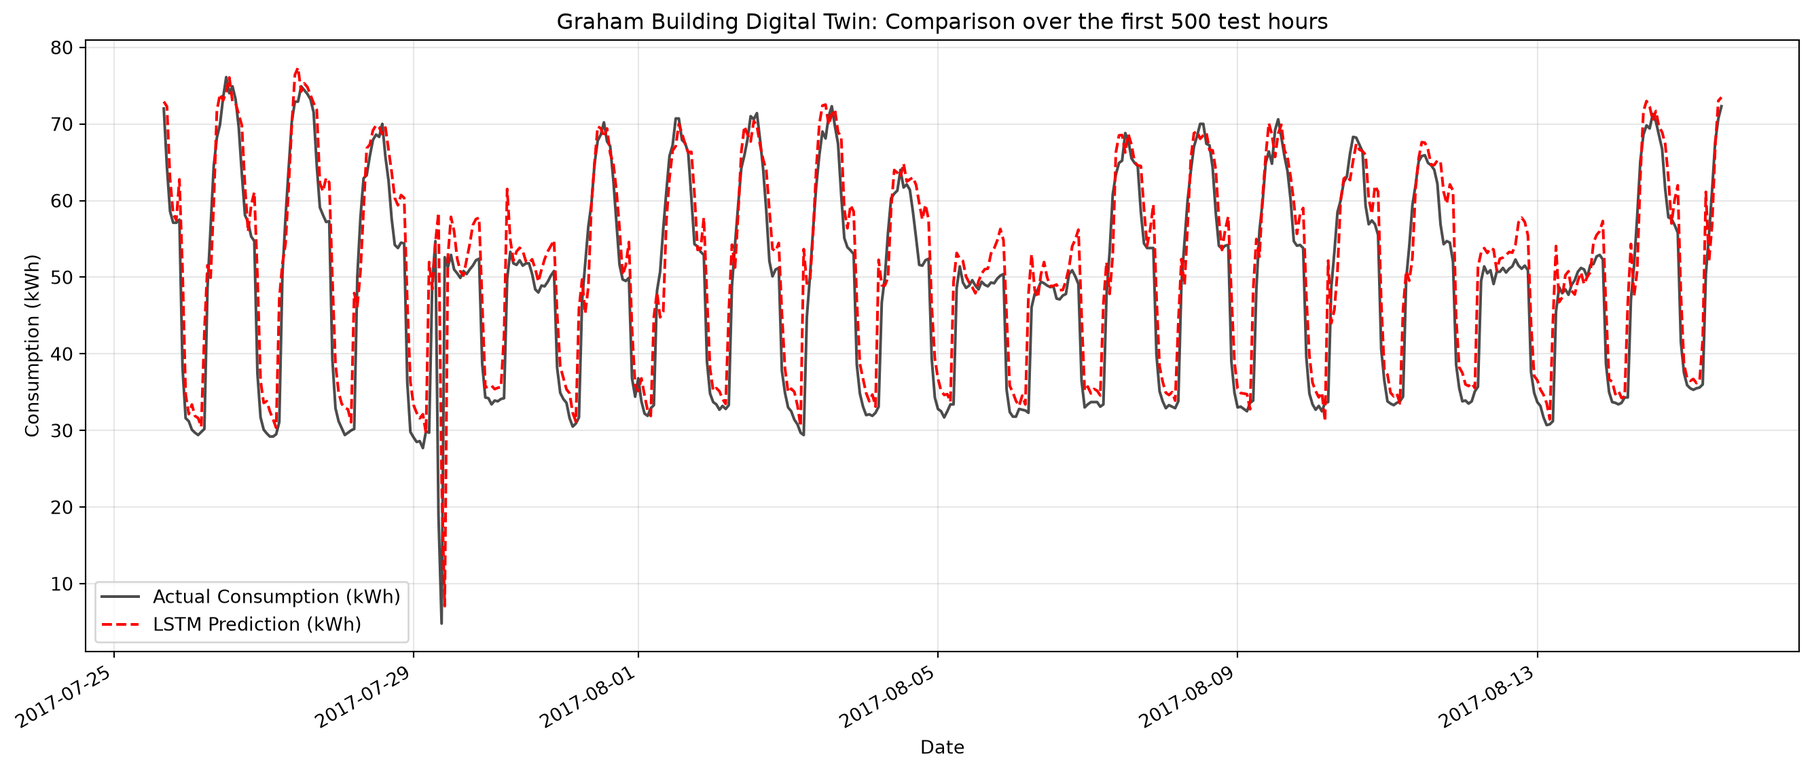
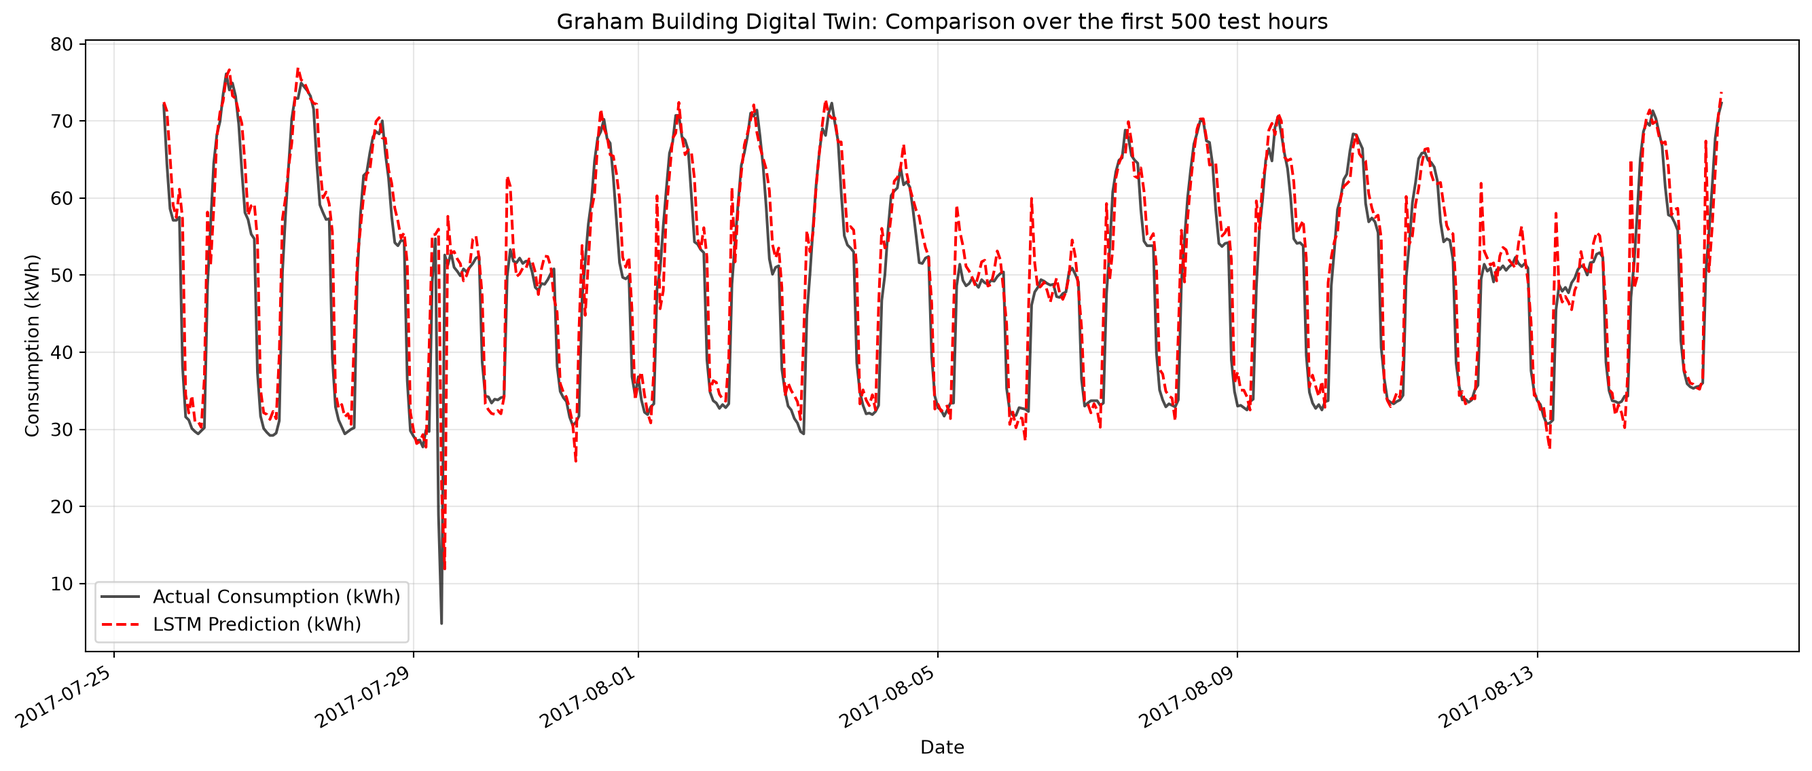
Built site for gh-pages

diff --git a/ai-ml/optitherm.html b/ai-ml/optitherm.html
@@ -338,6 +338,10 @@ window.Quarto = {
 <span class="menu-text">Scientific Computing</span></a>
   </li>  
   <li class="nav-item">
+    <a class="nav-link" href="../about.html"> 
+<span class="menu-text">About Me</span></a>
+  </li>  
+  <li class="nav-item">
     <a class="nav-link" href="../cv.html"> 
 <span class="menu-text">Resume</span></a>
   </li>  
@@ -492,7 +496,7 @@ os.environ['KAGGLE_KEY'] = "your_api_key"</code></pre>
 </div>
 </div>
 <hr>
-<div id="6e697c57" class="cell" data-execution_count="1">
+<div id="3818d293" class="cell" data-execution_count="1">
 <div class="code-copy-outer-scaffold"><div class="sourceCode cell-code" id="cb2"><pre class="sourceCode python code-with-copy"><code class="sourceCode python"><span id="cb2-1"><a href="#cb2-1" aria-hidden="true" tabindex="-1"></a><span class="im">import</span> os</span>
 <span id="cb2-2"><a href="#cb2-2" aria-hidden="true" tabindex="-1"></a><span class="im">import</span> pandas <span class="im">as</span> pd</span>
 <span id="cb2-3"><a href="#cb2-3" aria-hidden="true" tabindex="-1"></a></span>
@@ -593,7 +597,7 @@ operable program or batch file.</code></pre>
 </section>
 <section id="stage-1-data-engineering-and-consolidation-1" class="level2">
 <h2 class="anchored" data-anchor-id="stage-1-data-engineering-and-consolidation-1">Stage 1: Data Engineering and Consolidation</h2>
-<div id="06afeb5b" class="cell" data-execution_count="2">
+<div id="8148ac5b" class="cell" data-execution_count="2">
 <div class="code-copy-outer-scaffold"><div class="sourceCode cell-code" id="cb5"><pre class="sourceCode python code-with-copy"><code class="sourceCode python"><span id="cb5-1"><a href="#cb5-1" aria-hidden="true" tabindex="-1"></a><span class="co"># Parameters for the digital twin</span></span>
 <span id="cb5-2"><a href="#cb5-2" aria-hidden="true" tabindex="-1"></a>building_id <span class="op">=</span> <span class="st">"Panther_office_Graham"</span></span>
 <span id="cb5-3"><a href="#cb5-3" aria-hidden="true" tabindex="-1"></a>site_id <span class="op">=</span> <span class="st">"Panther"</span></span>
@@ -658,7 +662,7 @@ dtype: int64</code></pre>
 <section id="next-step" class="level4">
 <h4 class="anchored" data-anchor-id="next-step">Next Step</h4>
 <p>Before deciding whether to impute or discard these observations, a visual temporal analysis is required to identify the distribution and duration of the electricity meter outages.</p>
-<div id="199420d7" class="cell" data-execution_count="3">
+<div id="7340d0d7" class="cell" data-execution_count="3">
 <div class="code-copy-outer-scaffold"><div class="sourceCode cell-code" id="cb7"><pre class="sourceCode python code-with-copy"><code class="sourceCode python"><span id="cb7-1"><a href="#cb7-1" aria-hidden="true" tabindex="-1"></a><span class="im">import</span> matplotlib.pyplot <span class="im">as</span> plt</span>
 <span id="cb7-2"><a href="#cb7-2" aria-hidden="true" tabindex="-1"></a></span>
 <span id="cb7-3"><a href="#cb7-3" aria-hidden="true" tabindex="-1"></a><span class="bu">print</span>(<span class="st">"1. Cleaning exogenous variables (weather data)..."</span>)</span>
@@ -714,7 +718,7 @@ dtype: int64
 <p>Interestingly, the prolonged sensor outage observed during the summer of 2017 was retained and used as a natural temporal boundary between the training and testing datasets. This approach avoids arbitrary data splitting strategies and ensures a realistic evaluation scenario, where the model is trained on past observations and tested on future unseen conditions.</p>
 <p><strong>Methodological justification:</strong></p>
 <p>The thermal dynamics of a building are learned from temporal sequences using recurrent neural networks (RNN/LSTM) with sliding windows. Therefore, preserving the chronological structure of the data is essential. By using the sensor outage as a natural separation point, the model evaluation better reflects a real-world deployment scenario, where future energy consumption must be predicted based solely on historical information.</p>
-<div id="e82dd812" class="cell" data-execution_count="4">
+<div id="77d8383d" class="cell" data-execution_count="4">
 <div class="code-copy-outer-scaffold"><div class="sourceCode cell-code" id="cb9"><pre class="sourceCode python code-with-copy"><code class="sourceCode python"><span id="cb9-1"><a href="#cb9-1" aria-hidden="true" tabindex="-1"></a><span class="bu">print</span>(<span class="st">"1. Removing the initial data gap (early 2016)..."</span>)</span>
 <span id="cb9-2"><a href="#cb9-2" aria-hidden="true" tabindex="-1"></a></span>
 <span id="cb9-3"><a href="#cb9-3" aria-hidden="true" tabindex="-1"></a><span class="co"># Remove the period with insufficient data coverage</span></span>
@@ -782,7 +786,7 @@ dtype: int64
 <p><strong><em>Why use both sine and cosine components?</em></strong></p>
 <p>Using only one trigonometric function introduces ambiguity due to symmetry. For example, if only the sine component is used, midnight (<span class="math inline">\(\sin(0)=0\)</span>) and noon (<span class="math inline">\(\sin(\pi)=0\)</span>) would receive the same value, preventing the model from distinguishing between day and night. By combining the cosine component (<span class="math inline">\(X\)</span>-axis) and sine component (<span class="math inline">\(Y\)</span>-axis), each timestamp is uniquely represented in a two-dimensional periodic space. Consequently, the Euclidean distance between 23:00 and 01:00 is correctly interpreted as small by the neural network.</p>
 <p>The following code adds these temporal coordinates to the dataset:</p>
-<div id="503a5470" class="cell" data-execution_count="5">
+<div id="1372990a" class="cell" data-execution_count="5">
 <div class="code-copy-outer-scaffold"><div class="sourceCode cell-code" id="cb11"><pre class="sourceCode python code-with-copy"><code class="sourceCode python"><span id="cb11-1"><a href="#cb11-1" aria-hidden="true" tabindex="-1"></a><span class="im">import</span> numpy <span class="im">as</span> np</span>
 <span id="cb11-2"><a href="#cb11-2" aria-hidden="true" tabindex="-1"></a><span class="im">import</span> matplotlib.pyplot <span class="im">as</span> plt</span>
 <span id="cb11-3"><a href="#cb11-3" aria-hidden="true" tabindex="-1"></a></span>
@@ -838,7 +842,7 @@ dtype: int64
 <p>This analysis provides valuable insights for feature selection before training the PyTorch model. Variables with limited predictive relevance may be removed to reduce noise and decrease the dimensionality of the input tensors. However, correlation alone does not fully capture the predictive value of a feature, especially in nonlinear time-dependent systems such as building thermal dynamics.</p>
 <p><strong>Code: Correlation Heatmap</strong></p>
 <p>The following visualization uses the <code>seaborn</code> library to generate a correlation heatmap, providing an overview of the relationships between the selected features and the energy consumption target.</p>
-<div id="649fca9c" class="cell" data-execution_count="6">
+<div id="54b049de" class="cell" data-execution_count="6">
 <div class="code-copy-outer-scaffold"><div class="sourceCode cell-code" id="cb13"><pre class="sourceCode python code-with-copy"><code class="sourceCode python"><span id="cb13-1"><a href="#cb13-1" aria-hidden="true" tabindex="-1"></a><span class="im">import</span> seaborn <span class="im">as</span> sns</span>
 <span id="cb13-2"><a href="#cb13-2" aria-hidden="true" tabindex="-1"></a><span class="im">import</span> matplotlib.pyplot <span class="im">as</span> plt</span>
 <span id="cb13-3"><a href="#cb13-3" aria-hidden="true" tabindex="-1"></a></span>
@@ -907,7 +911,7 @@ Generating the global Heatmap...</code></pre>
 <li><code>day_cos</code>: weekly temporal encoding component.</li>
 </ul>
 <p>The objective is to determine whether past values of these variables contain predictive information about future electricity consumption over a 24-hour horizon. This analysis helps identify delayed relationships that cannot be captured by a standard Pearson correlation computed at the same timestamp.</p>
-<div id="bf91813d" class="cell" data-execution_count="7">
+<div id="02cc4bd0" class="cell" data-execution_count="7">
 <div class="code-copy-outer-scaffold"><div class="sourceCode cell-code" id="cb15"><pre class="sourceCode python code-with-copy"><code class="sourceCode python"><span id="cb15-1"><a href="#cb15-1" aria-hidden="true" tabindex="-1"></a><span class="im">import</span> pandas <span class="im">as</span> pd</span>
 <span id="cb15-2"><a href="#cb15-2" aria-hidden="true" tabindex="-1"></a><span class="im">import</span> matplotlib.pyplot <span class="im">as</span> plt</span>
 <span id="cb15-3"><a href="#cb15-3" aria-hidden="true" tabindex="-1"></a></span>
@@ -1055,7 +1059,7 @@ dtype: float64</code></pre>
 <p>To predict the energy consumption at time <span class="math inline">\(t\)</span>, the model receives the previous 24 hours of system information:</p>
 <p>[ [X_{t-24}, X_{t-23}, …, X_{t-1}] ]</p>
 <p>Any sequence containing missing target values is discarded to ensure that the model is trained only on physically consistent observations.</p>
-<div id="9b34370b" class="cell" data-execution_count="8">
+<div id="493bf9d4" class="cell" data-execution_count="8">
 <div class="code-copy-outer-scaffold"><div class="sourceCode cell-code" id="cb17"><pre class="sourceCode python code-with-copy"><code class="sourceCode python"><span id="cb17-1"><a href="#cb17-1" aria-hidden="true" tabindex="-1"></a><span class="im">import</span> numpy <span class="im">as</span> np</span>
 <span id="cb17-2"><a href="#cb17-2" aria-hidden="true" tabindex="-1"></a><span class="im">import</span> pandas <span class="im">as</span> pd</span>
 <span id="cb17-3"><a href="#cb17-3" aria-hidden="true" tabindex="-1"></a><span class="im">from</span> sklearn.preprocessing <span class="im">import</span> MinMaxScaler</span>
@@ -1188,7 +1192,7 @@ Testing X : (3824, 24, 11), y: (3824, 1)</code></pre>
 </ol>
 <p>The model parameters are optimized by minimizing the Mean Squared Error (MSE) loss, which is appropriate for this continuous regression problem. The Adam optimizer is selected due to its adaptive learning rate mechanism and its robustness for training deep neural networks.</p>
 <p>The following code implements the <code>ThermalLSTM</code> architecture and initializes the training configuration.</p>
-<div id="0cdfaf10" class="cell" data-execution_count="9">
+<div id="ff372f18" class="cell" data-execution_count="9">
 <div class="code-copy-outer-scaffold"><div class="sourceCode cell-code" id="cb19"><pre class="sourceCode python code-with-copy"><code class="sourceCode python"><span id="cb19-1"><a href="#cb19-1" aria-hidden="true" tabindex="-1"></a><span class="im">import</span> torch</span>
 <span id="cb19-2"><a href="#cb19-2" aria-hidden="true" tabindex="-1"></a><span class="im">import</span> torch.nn <span class="im">as</span> nn</span>
 <span id="cb19-3"><a href="#cb19-3" aria-hidden="true" tabindex="-1"></a><span class="im">import</span> torch.optim <span class="im">as</span> optim</span>
@@ -1271,7 +1275,7 @@ ThermalLSTM(
 -&gt; Model ready for training.</code></pre>
 </div>
 </div>
-<div id="87d61414" class="cell" data-execution_count="10">
+<div id="3237116d" class="cell" data-execution_count="10">
 <div class="code-copy-outer-scaffold"><div class="sourceCode cell-code" id="cb21"><pre class="sourceCode python code-with-copy"><code class="sourceCode python"><span id="cb21-1"><a href="#cb21-1" aria-hidden="true" tabindex="-1"></a><span class="im">import</span> torch</span>
 <span id="cb21-2"><a href="#cb21-2" aria-hidden="true" tabindex="-1"></a><span class="im">from</span> torch.utils.data <span class="im">import</span> TensorDataset, DataLoader</span>
 <span id="cb21-3"><a href="#cb21-3" aria-hidden="true" tabindex="-1"></a></span>
@@ -1320,7 +1324,7 @@ Creating DataLoaders...
 <p>After each epoch, the model is evaluated on the future unseen dataset separated by the natural sensor outage boundary. This chronological evaluation provides a realistic measure of the model’s generalization capability.</p></li>
 </ol>
 <p>The evolution of the training and evaluation losses is stored throughout the optimization process to monitor convergence and detect potential overfitting.</p>
-<div id="e1471f8c" class="cell" data-execution_count="11">
+<div id="d104eae4" class="cell" data-execution_count="11">
 <div class="code-copy-outer-scaffold"><div class="sourceCode cell-code" id="cb23"><pre class="sourceCode python code-with-copy"><code class="sourceCode python"><span id="cb23-1"><a href="#cb23-1" aria-hidden="true" tabindex="-1"></a><span class="im">import</span> torch</span>
 <span id="cb23-2"><a href="#cb23-2" aria-hidden="true" tabindex="-1"></a></span>
 <span id="cb23-3"><a href="#cb23-3" aria-hidden="true" tabindex="-1"></a><span class="bu">print</span>(<span class="st">"Configuring the training loop..."</span>)</span>
@@ -1400,33 +1404,33 @@ Creating DataLoaders...
 <span id="cb23-77"><a href="#cb23-77" aria-hidden="true" tabindex="-1"></a><span class="bu">print</span>(<span class="ss">f"Best test MSE: </span><span class="sc">{</span>best_test_loss<span class="sc">:.6f}</span><span class="ss">"</span>)</span></code></pre></div><button title="Copy to Clipboard" class="code-copy-button"><i class="bi"></i></button></div>
 <div class="cell-output cell-output-stdout">
 <pre><code>Configuring the training loop...
-Epoch [  1/200] | Train Loss (MSE): 0.043798 | Test Loss (MSE): 0.021399
-Epoch [ 10/200] | Train Loss (MSE): 0.002704 | Test Loss (MSE): 0.003495
-Epoch [ 20/200] | Train Loss (MSE): 0.001271 | Test Loss (MSE): 0.002268
-Epoch [ 30/200] | Train Loss (MSE): 0.000756 | Test Loss (MSE): 0.001313
-Epoch [ 40/200] | Train Loss (MSE): 0.000659 | Test Loss (MSE): 0.001339
-Epoch [ 50/200] | Train Loss (MSE): 0.000597 | Test Loss (MSE): 0.001170
-Epoch [ 60/200] | Train Loss (MSE): 0.000571 | Test Loss (MSE): 0.001070
-Epoch [ 70/200] | Train Loss (MSE): 0.000594 | Test Loss (MSE): 0.001168
-Epoch [ 80/200] | Train Loss (MSE): 0.000561 | Test Loss (MSE): 0.001038
-Epoch [ 90/200] | Train Loss (MSE): 0.000520 | Test Loss (MSE): 0.000949
-Epoch [100/200] | Train Loss (MSE): 0.000495 | Test Loss (MSE): 0.001285
-Epoch [110/200] | Train Loss (MSE): 0.000477 | Test Loss (MSE): 0.001093
-Epoch [120/200] | Train Loss (MSE): 0.000471 | Test Loss (MSE): 0.001158
-Epoch [130/200] | Train Loss (MSE): 0.000471 | Test Loss (MSE): 0.000946
-Epoch [140/200] | Train Loss (MSE): 0.000461 | Test Loss (MSE): 0.001084
-Epoch [150/200] | Train Loss (MSE): 0.000456 | Test Loss (MSE): 0.001270
-Epoch [160/200] | Train Loss (MSE): 0.000425 | Test Loss (MSE): 0.001145
-Epoch [170/200] | Train Loss (MSE): 0.000440 | Test Loss (MSE): 0.001097
-Epoch [180/200] | Train Loss (MSE): 0.000420 | Test Loss (MSE): 0.001055
-Epoch [190/200] | Train Loss (MSE): 0.000412 | Test Loss (MSE): 0.001043
-Epoch [200/200] | Train Loss (MSE): 0.000403 | Test Loss (MSE): 0.001157
+Epoch [  1/200] | Train Loss (MSE): 0.026862 | Test Loss (MSE): 0.023401
+Epoch [ 10/200] | Train Loss (MSE): 0.002232 | Test Loss (MSE): 0.003852
+Epoch [ 20/200] | Train Loss (MSE): 0.000997 | Test Loss (MSE): 0.002328
+Epoch [ 30/200] | Train Loss (MSE): 0.000752 | Test Loss (MSE): 0.002132
+Epoch [ 40/200] | Train Loss (MSE): 0.000632 | Test Loss (MSE): 0.001594
+Epoch [ 50/200] | Train Loss (MSE): 0.000579 | Test Loss (MSE): 0.001422
+Epoch [ 60/200] | Train Loss (MSE): 0.000549 | Test Loss (MSE): 0.001552
+Epoch [ 70/200] | Train Loss (MSE): 0.000535 | Test Loss (MSE): 0.001366
+Epoch [ 80/200] | Train Loss (MSE): 0.000503 | Test Loss (MSE): 0.001268
+Epoch [ 90/200] | Train Loss (MSE): 0.000498 | Test Loss (MSE): 0.001212
+Epoch [100/200] | Train Loss (MSE): 0.000467 | Test Loss (MSE): 0.001188
+Epoch [110/200] | Train Loss (MSE): 0.000461 | Test Loss (MSE): 0.001397
+Epoch [120/200] | Train Loss (MSE): 0.000443 | Test Loss (MSE): 0.001177
+Epoch [130/200] | Train Loss (MSE): 0.000445 | Test Loss (MSE): 0.001212
+Epoch [140/200] | Train Loss (MSE): 0.000443 | Test Loss (MSE): 0.001472
+Epoch [150/200] | Train Loss (MSE): 0.000430 | Test Loss (MSE): 0.001212
+Epoch [160/200] | Train Loss (MSE): 0.000418 | Test Loss (MSE): 0.001252
+Epoch [170/200] | Train Loss (MSE): 0.000411 | Test Loss (MSE): 0.001155
+Epoch [180/200] | Train Loss (MSE): 0.000423 | Test Loss (MSE): 0.001404
+Epoch [190/200] | Train Loss (MSE): 0.000396 | Test Loss (MSE): 0.001440
+Epoch [200/200] | Train Loss (MSE): 0.000404 | Test Loss (MSE): 0.001139
 
 --- Training completed successfully! ---
-Best test MSE: 0.000930</code></pre>
+Best test MSE: 0.001079</code></pre>
 </div>
 </div>
-<div id="3e9eaa78" class="cell" data-execution_count="12">
+<div id="0efb042a" class="cell" data-execution_count="12">
 <div class="code-copy-outer-scaffold"><div class="sourceCode cell-code" id="cb25"><pre class="sourceCode python code-with-copy"><code class="sourceCode python"><span id="cb25-1"><a href="#cb25-1" aria-hidden="true" tabindex="-1"></a><span class="im">import</span> matplotlib.dates <span class="im">as</span> mdates</span>
 <span id="cb25-2"><a href="#cb25-2" aria-hidden="true" tabindex="-1"></a><span class="im">import</span> matplotlib.pyplot <span class="im">as</span> plt</span>
 <span id="cb25-3"><a href="#cb25-3" aria-hidden="true" tabindex="-1"></a></span>
@@ -1482,7 +1486,7 @@ Best test MSE: 0.000930</code></pre>
 </div>
 </div>
 </div>
-<div id="522063c7" class="cell" data-execution_count="13">
+<div id="fdc8cdc2" class="cell" data-execution_count="13">
 <div class="code-copy-outer-scaffold"><div class="sourceCode cell-code" id="cb27"><pre class="sourceCode python code-with-copy"><code class="sourceCode python"><span id="cb27-1"><a href="#cb27-1" aria-hidden="true" tabindex="-1"></a>plt.figure(figsize<span class="op">=</span>(<span class="dv">10</span>, <span class="dv">5</span>))</span>
 <span id="cb27-2"><a href="#cb27-2" aria-hidden="true" tabindex="-1"></a>plt.plot(train_losses, label<span class="op">=</span><span class="st">"Train Loss"</span>, color<span class="op">=</span><span class="st">'blue'</span>)</span>
 <span id="cb27-3"><a href="#cb27-3" aria-hidden="true" tabindex="-1"></a>plt.plot(test_losses, label<span class="op">=</span><span class="st">"Test Loss"</span>, color<span class="op">=</span><span class="st">'orange'</span>, linestyle<span class="op">=</span><span class="st">'--'</span>)</span>
@@ -1501,7 +1505,7 @@ Best test MSE: 0.000930</code></pre>
 </div>
 </div>
 </div>
-<div id="621c3ac0" class="cell" data-execution_count="14">
+<div id="daf961f1" class="cell" data-execution_count="14">
 <div class="code-copy-outer-scaffold"><div class="sourceCode cell-code" id="cb28"><pre class="sourceCode python code-with-copy"><code class="sourceCode python"><span id="cb28-1"><a href="#cb28-1" aria-hidden="true" tabindex="-1"></a>plt.figure(figsize<span class="op">=</span>(<span class="dv">6</span>, <span class="dv">6</span>))</span>
 <span id="cb28-2"><a href="#cb28-2" aria-hidden="true" tabindex="-1"></a>plt.scatter(actuals_rescaled, predictions_rescaled, alpha<span class="op">=</span><span class="fl">0.3</span>, color<span class="op">=</span><span class="st">'purple'</span>, s<span class="op">=</span><span class="dv">10</span>, label<span class="op">=</span><span class="st">"Predictions"</span>)</span>
 <span id="cb28-3"><a href="#cb28-3" aria-hidden="true" tabindex="-1"></a></span>

diff --git a/about.html b/about.html
@@ -274,6 +274,10 @@ ul.task-list li input[type="checkbox"] {
 <span class="menu-text">Scientific Computing</span></a>
   </li>  
   <li class="nav-item">
+    <a class="nav-link active" href="./about.html" aria-current="page"> 
+<span class="menu-text">About Me</span></a>
+  </li>  
+  <li class="nav-item">
     <a class="nav-link" href="./cv.html"> 
 <span class="menu-text">Resume</span></a>
   </li>  
@@ -344,7 +348,7 @@ ul.task-list li input[type="checkbox"] {
 </section>
 <section id="beyond-the-code" class="level3">
 <h3 class="anchored" data-anchor-id="beyond-the-code">Beyond the Code</h3>
-<p>Writing clean C++ or optimizing a neural network backpropagation algorithm is only half the job; the other half is communication. Through my experience lecturing at institutions like Cégep de La Pocatière and Collège du Soleil, and acting as a technical consultant, I have honed the ability to break down highly dense mathematical concepts into clear, actionable insights for diverse teams. I am fully bilingual, collaborating seamlessly in both French and English.</p>
+<p>Writing clean C++ or optimizing a neural network backpropagation algorithm is only half the job; the other half is communication. Through my experience lecturing at institutions like Cégep de La Pocatière, and acting as a technical consultant, I have honed the ability to break down highly dense mathematical concepts into clear, actionable insights for diverse teams. I am fully bilingual, collaborating seamlessly in both French and English.</p>
 <hr>
 
 

diff --git a/ai-ml/blobs_classification.html b/ai-ml/blobs_classification.html
@@ -309,6 +309,10 @@ pre > code.sourceCode > span > a:first-child::before { text-decoration: underlin
 <span class="menu-text">Scientific Computing</span></a>
   </li>  
   <li class="nav-item">
+    <a class="nav-link" href="../about.html"> 
+<span class="menu-text">About Me</span></a>
+  </li>  
+  <li class="nav-item">
     <a class="nav-link" href="../cv.html"> 
 <span class="menu-text">Resume</span></a>
   </li>  

diff --git a/ai-ml/moons_classification.html b/ai-ml/moons_classification.html
@@ -309,6 +309,10 @@ pre > code.sourceCode > span > a:first-child::before { text-decoration: underlin
 <span class="menu-text">Scientific Computing</span></a>
   </li>  
   <li class="nav-item">
+    <a class="nav-link" href="../about.html"> 
+<span class="menu-text">About Me</span></a>
+  </li>  
+  <li class="nav-item">
     <a class="nav-link" href="../cv.html"> 
 <span class="menu-text">Resume</span></a>
   </li>  

diff --git a/scientific-computing/blobs.html b/scientific-computing/blobs.html
@@ -309,6 +309,10 @@ pre > code.sourceCode > span > a:first-child::before { text-decoration: underlin
 <span class="menu-text">Scientific Computing</span></a>
   </li>  
   <li class="nav-item">
+    <a class="nav-link" href="../about.html"> 
+<span class="menu-text">About Me</span></a>
+  </li>  
+  <li class="nav-item">
     <a class="nav-link" href="../cv.html"> 
 <span class="menu-text">Resume</span></a>
   </li>  

diff --git a/scientific-computing/cfem.html b/scientific-computing/cfem.html
@@ -310,6 +310,10 @@ pre > code.sourceCode > span > a:first-child::before { text-decoration: underlin
 <span class="menu-text">Scientific Computing</span></a>
   </li>  
   <li class="nav-item">
+    <a class="nav-link" href="../about.html"> 
+<span class="menu-text">About Me</span></a>
+  </li>  
+  <li class="nav-item">
     <a class="nav-link" href="../cv.html"> 
 <span class="menu-text">Resume</span></a>
   </li>  

diff --git a/scientific-computing/moons.html b/scientific-computing/moons.html
@@ -309,6 +309,10 @@ pre > code.sourceCode > span > a:first-child::before { text-decoration: underlin
 <span class="menu-text">Scientific Computing</span></a>
   </li>  
   <li class="nav-item">
+    <a class="nav-link" href="../about.html"> 
+<span class="menu-text">About Me</span></a>
+  </li>  
+  <li class="nav-item">
     <a class="nav-link" href="../cv.html"> 
 <span class="menu-text">Resume</span></a>
   </li>  

diff --git a/cv.html b/cv.html
@@ -274,6 +274,10 @@ ul.task-list li input[type="checkbox"] {
 <span class="menu-text">Scientific Computing</span></a>
   </li>  
   <li class="nav-item">
+    <a class="nav-link" href="./about.html"> 
+<span class="menu-text">About Me</span></a>
+  </li>  
+  <li class="nav-item">
     <a class="nav-link active" href="./cv.html" aria-current="page"> 
 <span class="menu-text">Resume</span></a>
   </li>  

diff --git a/ai-ml/index.html b/ai-ml/index.html
@@ -275,6 +275,10 @@ ul.task-list li input[type="checkbox"] {
 <span class="menu-text">Scientific Computing</span></a>
   </li>  
   <li class="nav-item">
+    <a class="nav-link" href="../about.html"> 
+<span class="menu-text">About Me</span></a>
+  </li>  
+  <li class="nav-item">
     <a class="nav-link" href="../cv.html"> 
 <span class="menu-text">Resume</span></a>
   </li>  

diff --git a/scientific-computing/index.html b/scientific-computing/index.html
@@ -275,6 +275,10 @@ ul.task-list li input[type="checkbox"] {
 <span class="menu-text">Scientific Computing</span></a>
   </li>  
   <li class="nav-item">
+    <a class="nav-link" href="../about.html"> 
+<span class="menu-text">About Me</span></a>
+  </li>  
+  <li class="nav-item">
     <a class="nav-link" href="../cv.html"> 
 <span class="menu-text">Resume</span></a>
   </li>  

diff --git a/index.html b/index.html
@@ -274,6 +274,10 @@ ul.task-list li input[type="checkbox"] {
 <span class="menu-text">Scientific Computing</span></a>
   </li>  
   <li class="nav-item">
+    <a class="nav-link" href="./about.html"> 
+<span class="menu-text">About Me</span></a>
+  </li>  
+  <li class="nav-item">
     <a class="nav-link" href="./cv.html"> 
 <span class="menu-text">Resume</span></a>
   </li>  

diff --git a/ai-ml/ml-engine.html b/ai-ml/ml-engine.html
@@ -304,6 +304,10 @@ window.Quarto = {
 <span class="menu-text">Scientific Computing</span></a>
   </li>  
   <li class="nav-item">
+    <a class="nav-link" href="../about.html"> 
+<span class="menu-text">About Me</span></a>
+  </li>  
+  <li class="nav-item">
     <a class="nav-link" href="../cv.html"> 
 <span class="menu-text">Resume</span></a>
   </li>  
